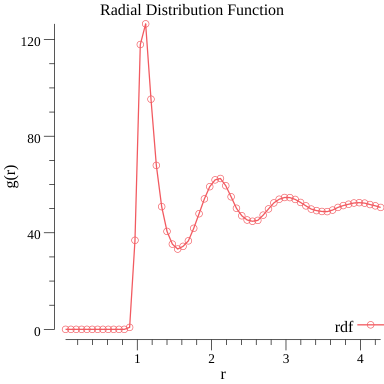
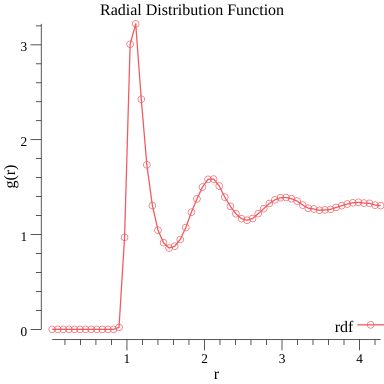
normalised rdf by number of samples

diff --git a/analysis/rdf.go b/analysis/rdf.go
@@ -36,18 +36,20 @@ func UpdateHistogram(R []r3.Vector, r_max, L, dr float64, H []float64) {
     }
 }
 
-func NormaliseHistogram(dr, rho float64, bins, N int, H []float64) (rdf, rad []float64) {
+func NormaliseHistogram(dr, rho float64, bins, N, T, sample int, H []float64) (rdf, rad []float64) {
     rdf = make([]float64, bins)
     rad = make([]float64, bins)
 	
 	N_f := float64(N)
+	T_f := float64(T % sample)
+
 	j := 0.
     for i:=0 ; i<bins; i++ {
 		
-        r:=dr*(j+0.5);
-        vol_bin:=((j+1)*(j+1)*(j+1)-j*j*j)*dr*dr*dr;
-        nid:=(4./3.)*math.Pi*vol_bin*rho;
-        rdf[i] = H[i]/N_f/nid
+        r:=dr*(j+0.5)
+        vol_bin:=((j+1)*(j+1)*(j+1)-j*j*j)*dr*dr*dr
+        nid:=(4./3.)*math.Pi*vol_bin*rho
+        rdf[i] = H[i]/nid/N_f/T_f
 		rad[i] = r
 		j += 1.
 	}

diff --git a/moldyn.go b/moldyn.go
@@ -55,12 +55,13 @@ func main() {
 	}
 
 	T := 1000
+	sample := 20
 	var temps []float64
 	start := time.Now()
 	for t := 0; t <= T; t++ {
 		// Rs, Vs = verlet.TimeStep(Rs, Vs, L, g.M, g.dt)
 		Rs, Vs = integrators.LangevinStep(Rs, Vs, L, g.M, g.dt, thermostat)
-		if t % 20 == 0 {
+		if t % sample == 0 {
 			analysis.UpdateHistogram(Rs, r_max, L, dr, H)
 			temps = append(temps, analysis.Temperature(Vs, g.M, g.N))
 		}
@@ -69,7 +70,8 @@ func main() {
 	elapsed := time.Since(start)
 	fmt.Printf("%v for %d time steps\n", elapsed, T)
 
-	rdf, rad := analysis.NormaliseHistogram(dr, g.rho, bins, g.N, H)
+
+	rdf, rad := analysis.NormaliseHistogram(dr, g.rho, bins, T, sample, g.N, H)
 	plot.PlotHistogram(rad, rdf)
 	plot.PlotTemperature(temps, g.dt)
 }

diff --git a/README.md b/README.md
@@ -21,4 +21,5 @@ This is a simple molecular dynamics package built in go. The motivation behind t
 * [ ] structure factor
 * [ ] chemical potential (via widom insertion) 
 * [ ] cavity function (via henderson's method)
-* [ ] make it easy to add new forces
+* [ ] add new pair potentials
+* [ ] add three-body potentials
